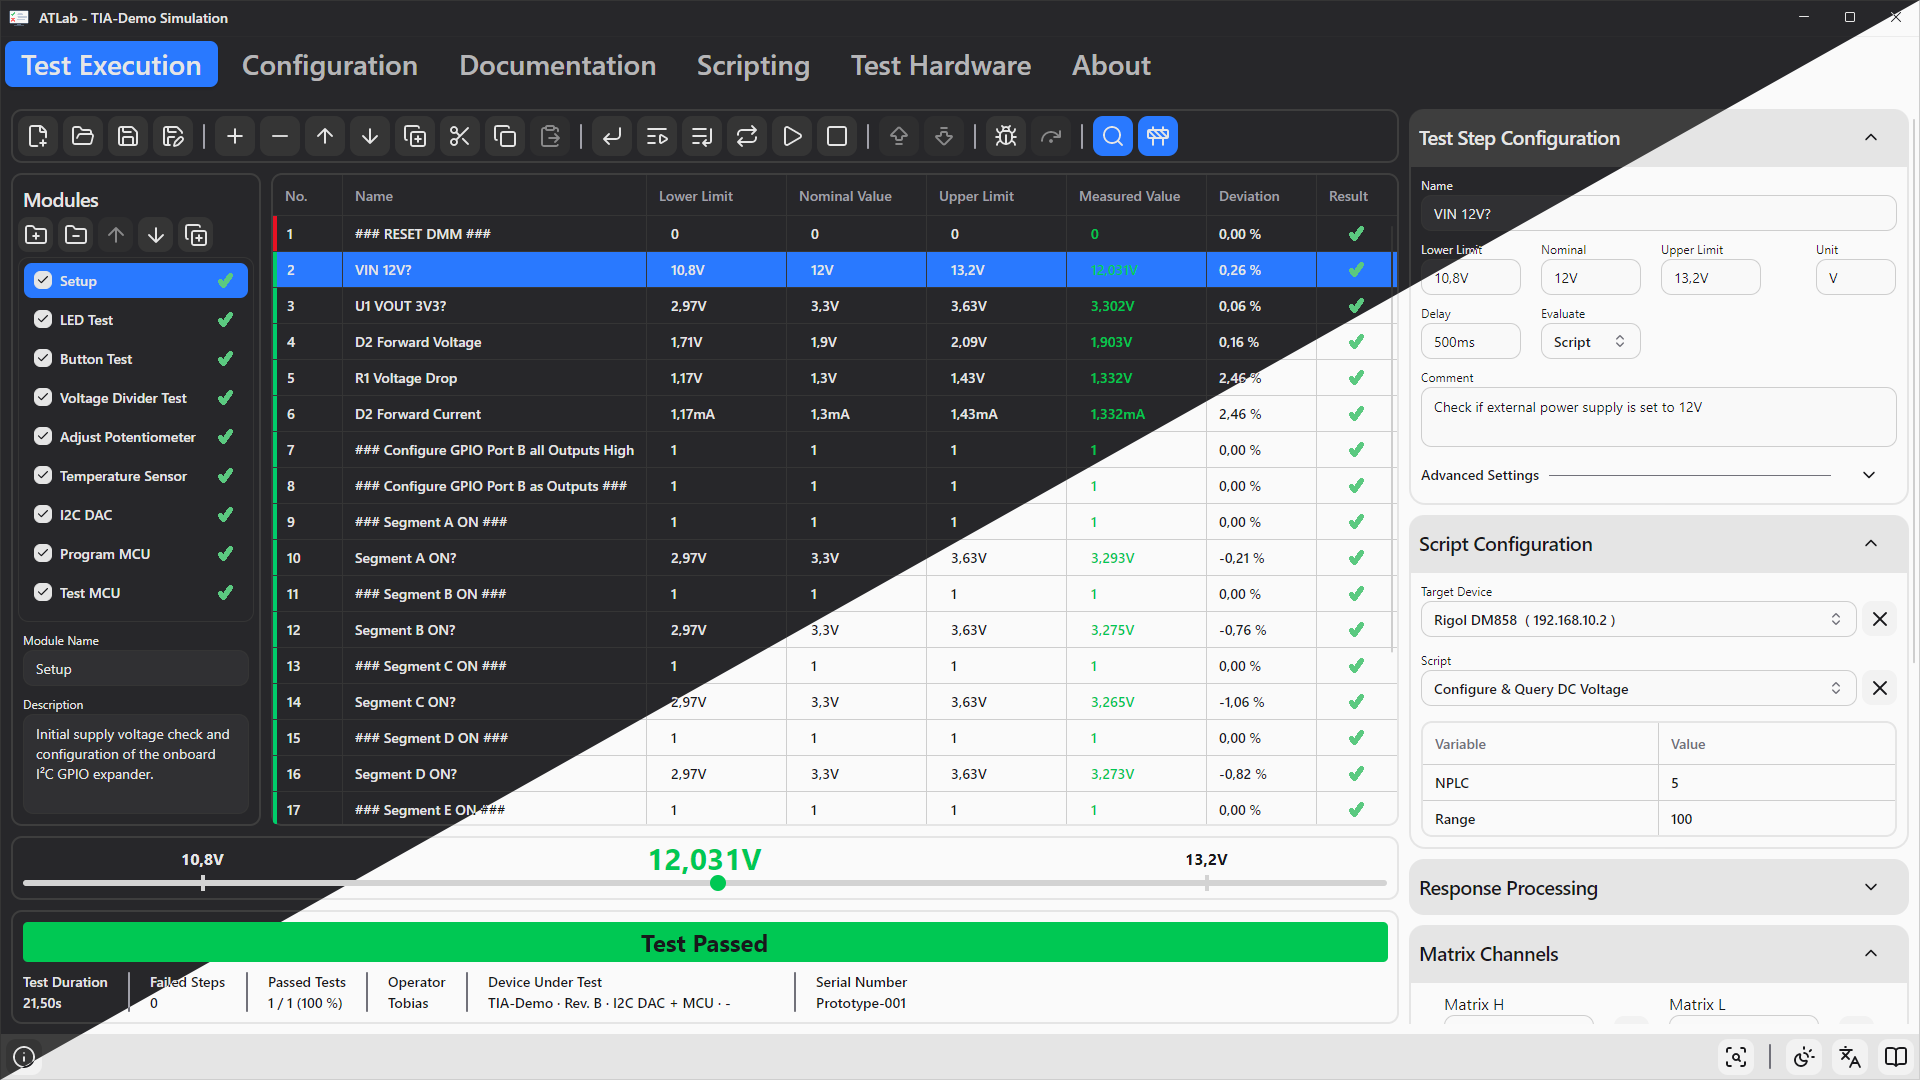
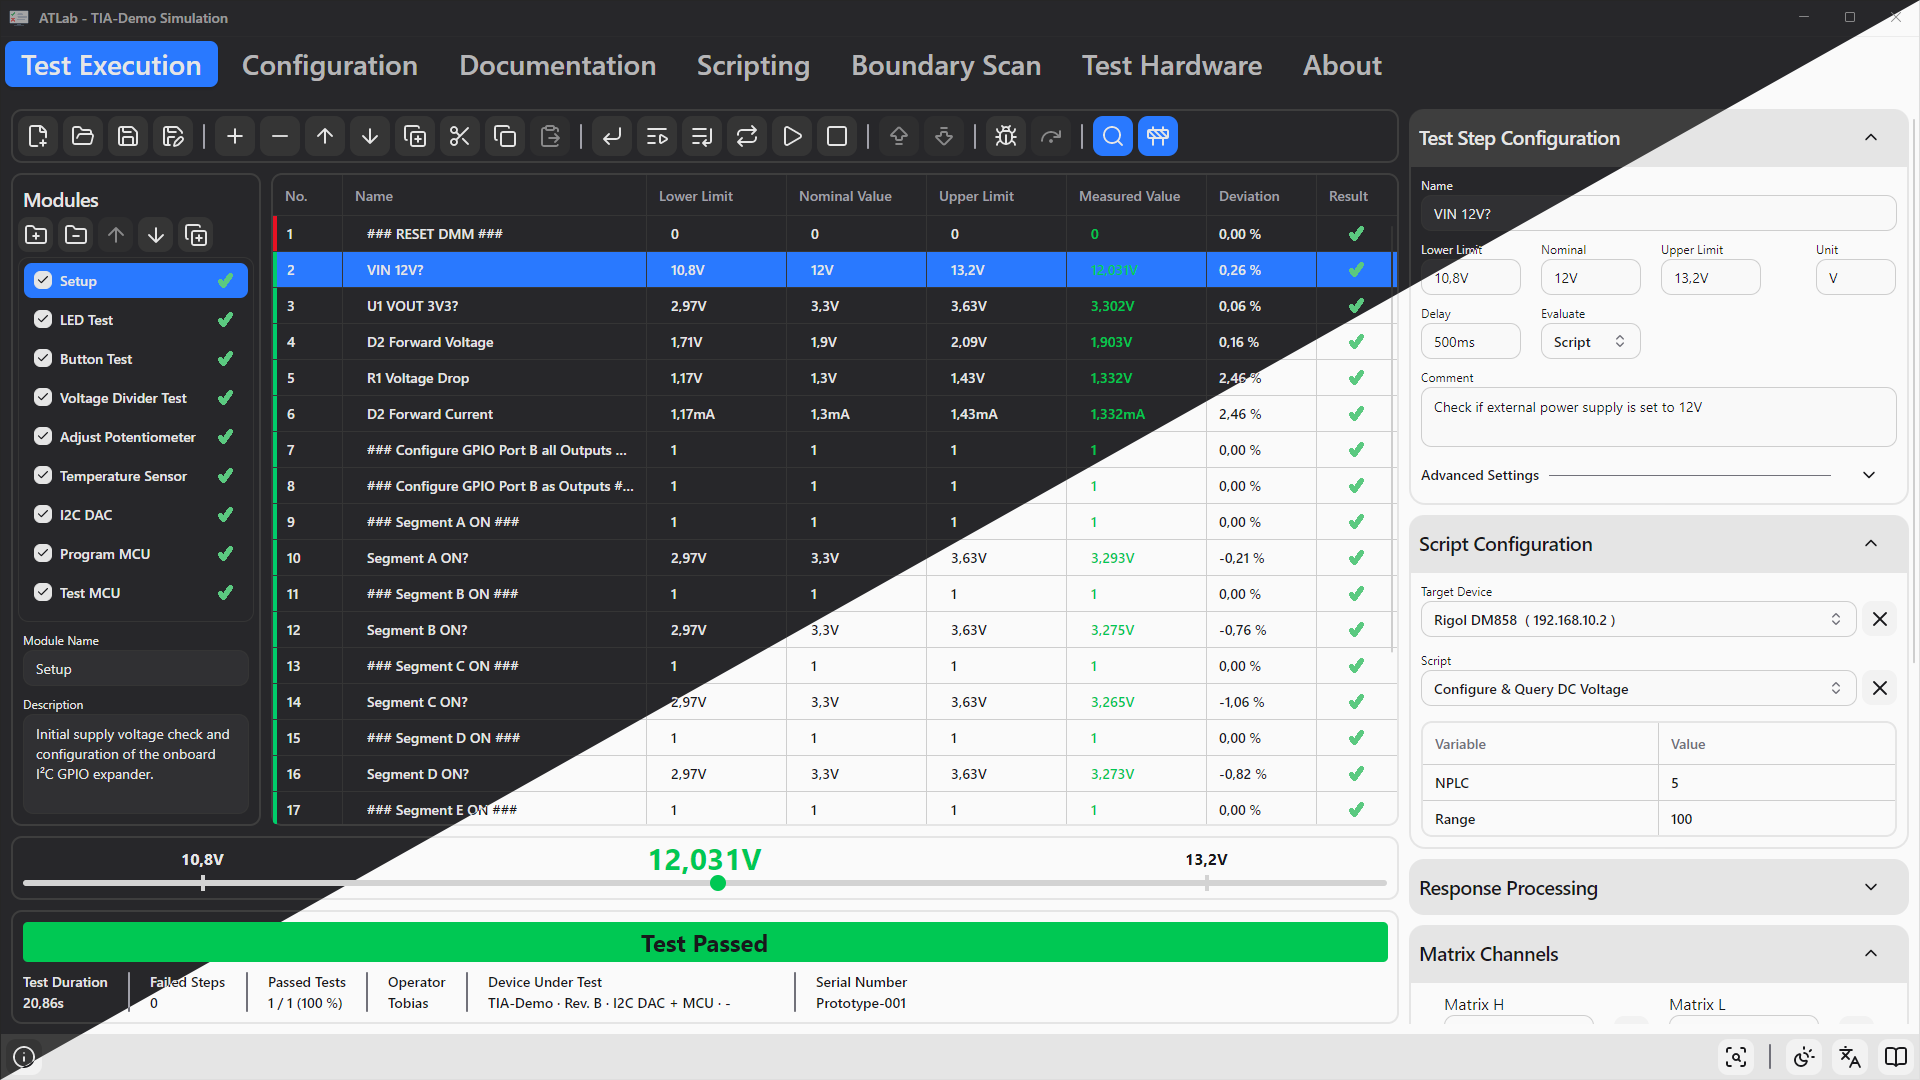
Update boundary scan documentation: add tab screenshots and improve layout readability

diff --git a/docs/user-guide/de/12-boundary-scan.md b/docs/user-guide/de/12-boundary-scan.md
@@ -34,6 +34,8 @@ Zum Lesen und Treiben von Pins benötigt ATLab die **BSDL-Datei** (Boundary Scan
 
 ## Überblick
 
+![Registerkarte Boundary Scan](images/Boundary_Scan_Tab_de.png)
+
 Die Registerkarte ist in drei Bereiche gegliedert:
 
 - **JTAG-Probe** (links oben) – Auswahl und Verbindung der Probe,

diff --git a/docs/user-guide/en/12-boundary-scan.md b/docs/user-guide/en/12-boundary-scan.md
@@ -34,6 +34,8 @@ To read or drive pins, ATLab needs the **BSDL file** (Boundary Scan Description 
 
 ## Overview
 
+![Boundary Scan tab](images/Boundary_Scan_Tab_en.png)
+
 The tab is divided into three areas:
 
 - **JTAG Probe** (top left) – probe selection and connection,
